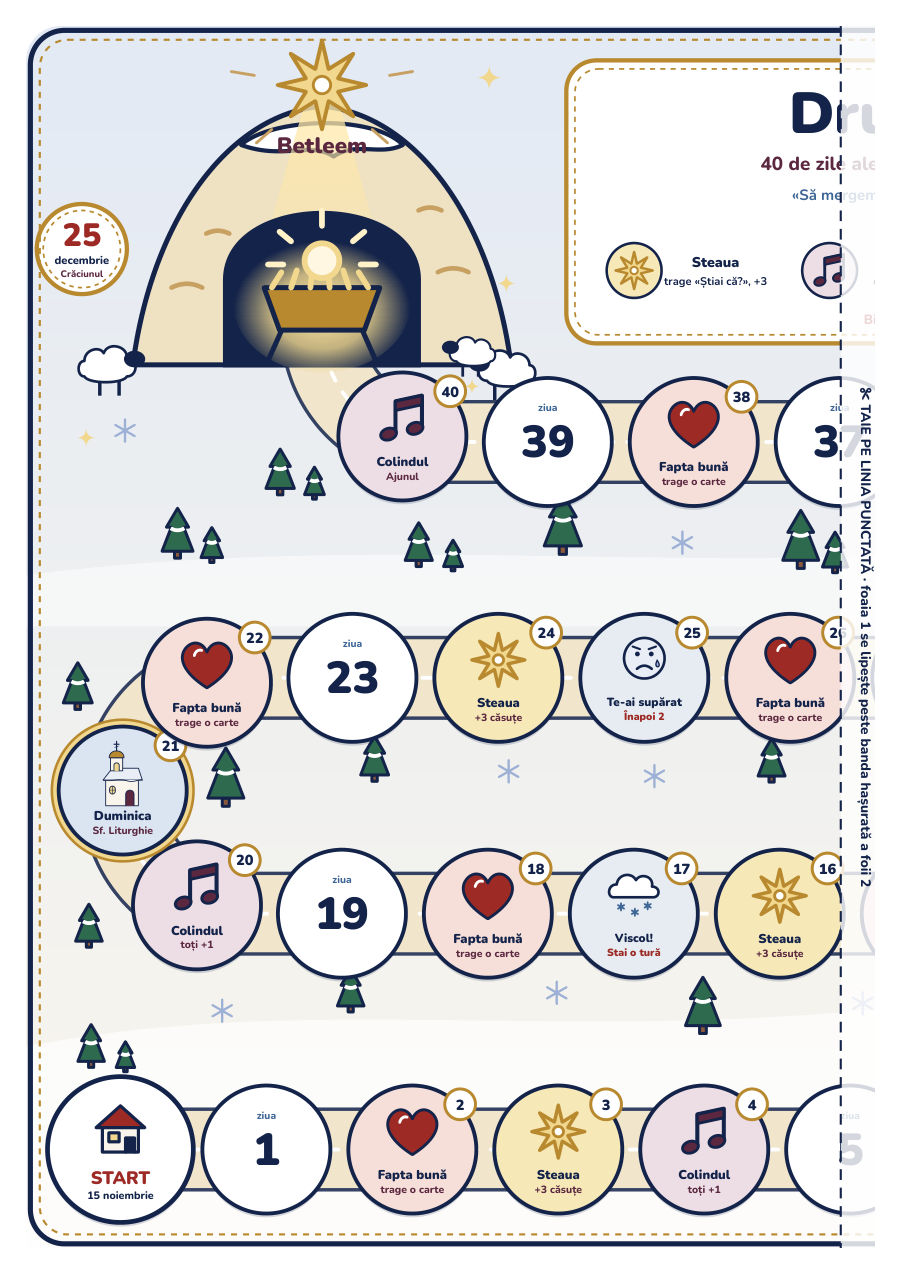
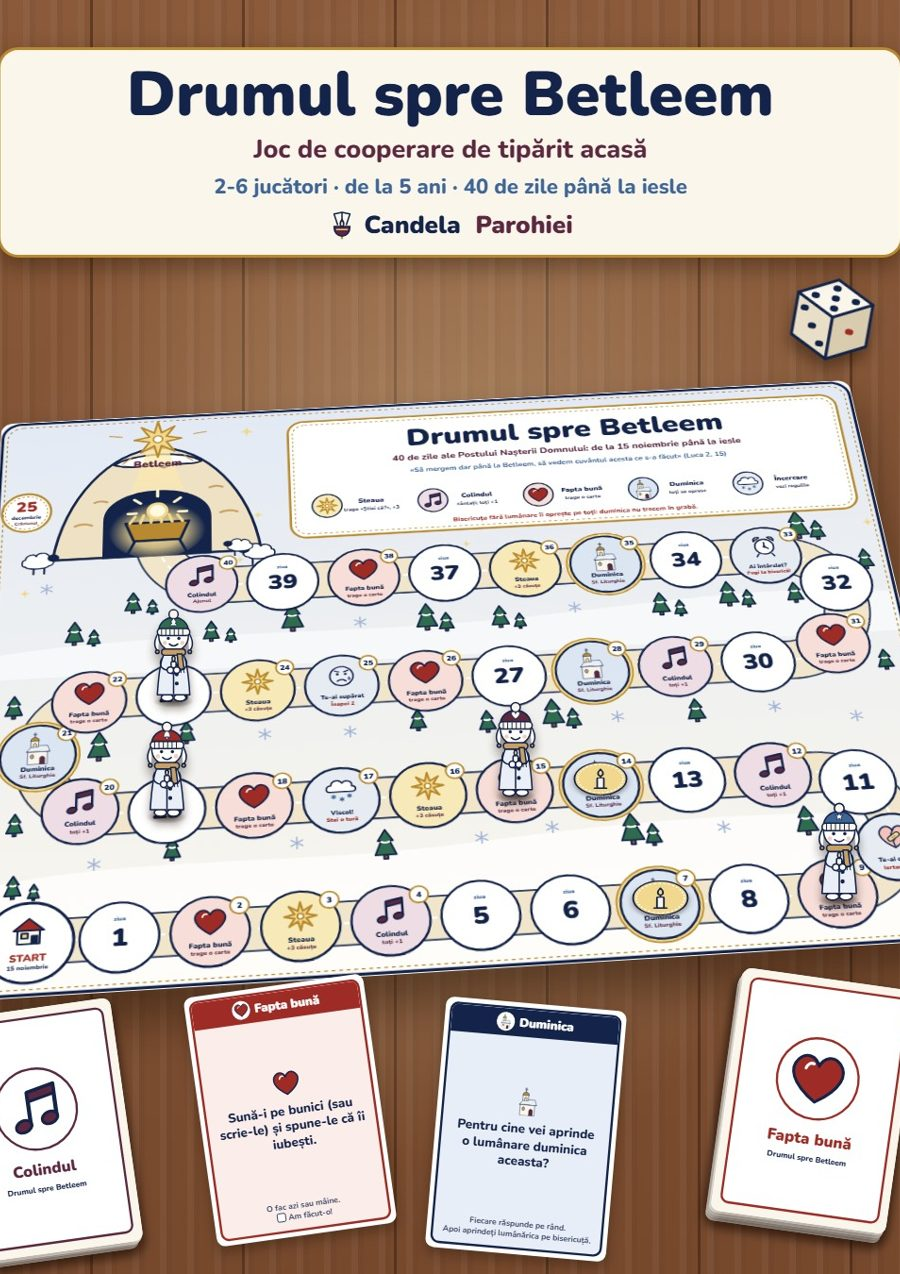
Licență: imaginea jocului întreagă

diff --git a/licenta/index.html b/licenta/index.html
@@ -66,7 +66,7 @@ footer{text-align:center;color:var(--muted);font-size:16px;padding:40px 20px 50p
   <div class="kicker">Pagini adevărate din materiale</div>
   <h2>Cum arată</h2>
   <div class="mostre">
-    <figure><img src="joc.jpg" width="900" height="1274" loading="lazy" alt="Tabla jocului «Drumul spre Betleem», cu 40 de căsuțe până la Crăciun"><figcaption>Jocul «Drumul spre Betleem»: tabla</figcaption></figure>
+    <figure><img src="joc.jpg" width="900" height="1274" loading="lazy" alt="Jocul de masă «Drumul spre Betleem»: tabla și cărțile cu fapte bune"><figcaption>Jocul «Drumul spre Betleem»</figcaption></figure>
     <figure><img src="povestiri.jpg" width="900" height="1274" loading="lazy" alt="O pagină din «Povestirile Sfinților din luna decembrie»: Sfântul Apostol Andrei"><figcaption>Povestirile Sfinților: Sfântul Apostol Andrei</figcaption></figure>
     <figure><img src="bingo.jpg" width="900" height="1274" loading="lazy" alt="Cartonașe de Bingo la Sfânta Liturghie, de colorat după slujbă"><figcaption>Bingo la Sfânta Liturghie: cartonașele</figcaption></figure>
     <figure><img src="bunici.jpg" width="900" height="1274" loading="lazy" alt="Un careu cu litere mari din «Seri de Crăciun cu bunicii»"><figcaption>Seri de Crăciun cu bunicii: careu cu litere mari</figcaption></figure>
